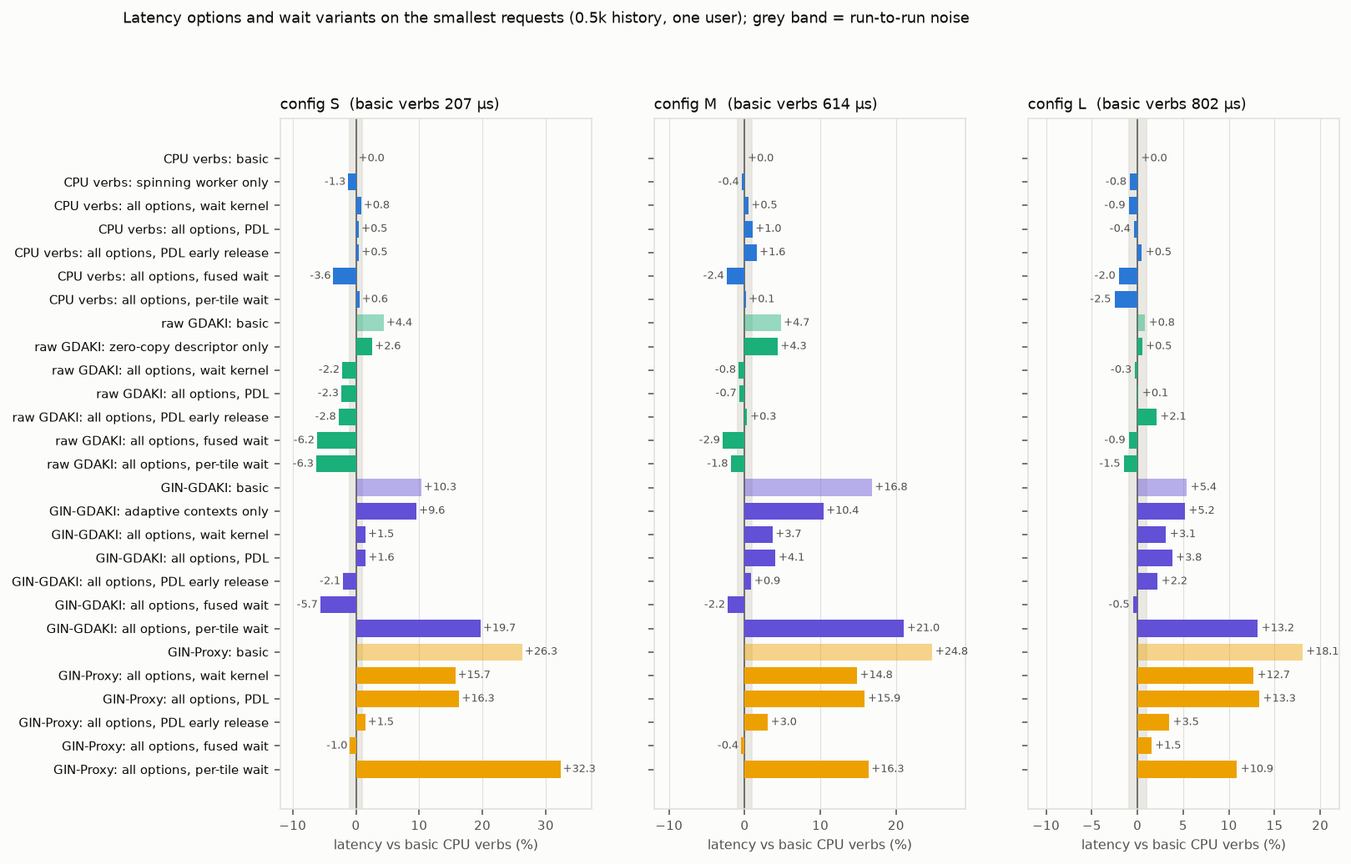
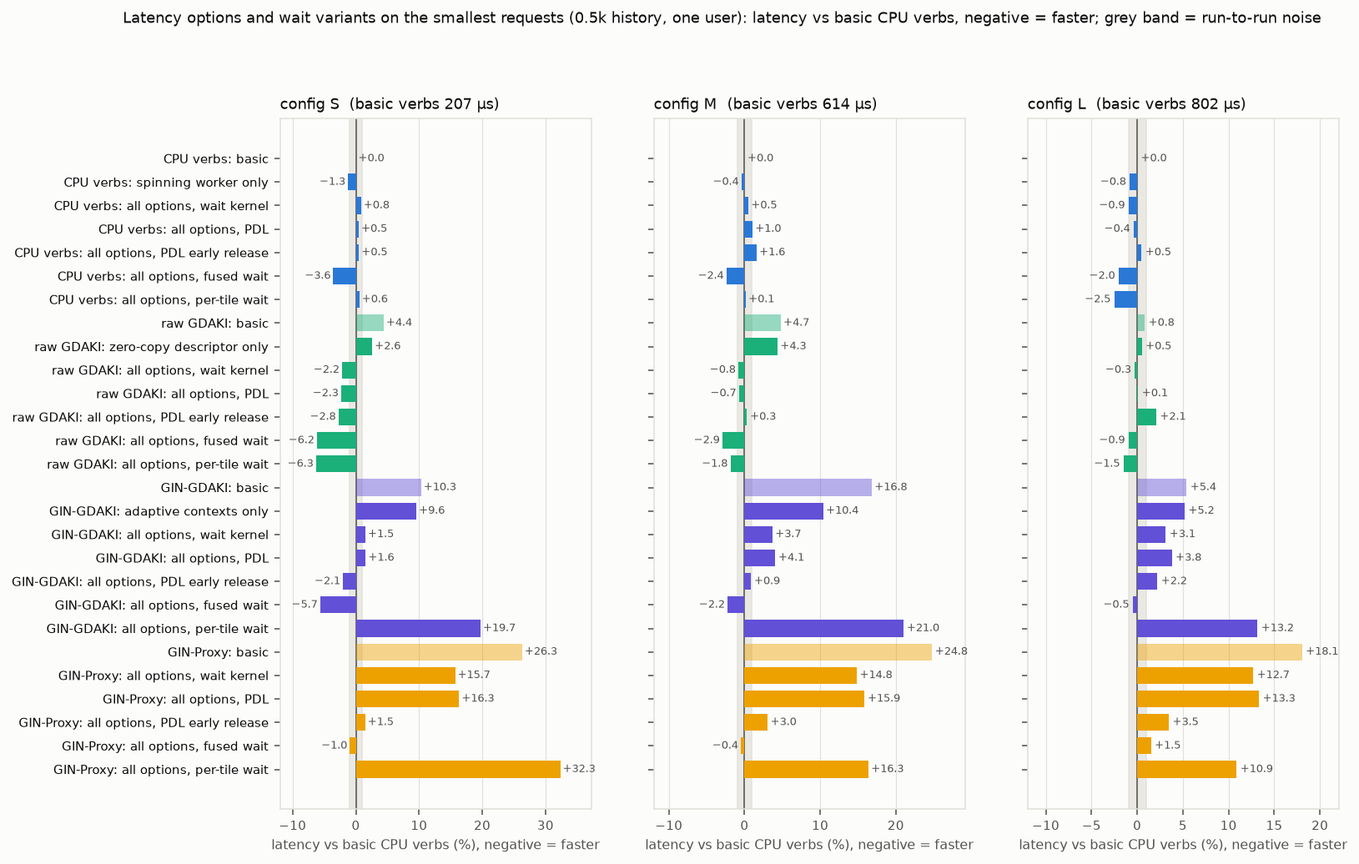
hstu-poc: report: wait-variant and who-posts diagrams, one sign convention
- docs/figs/fetch-timeline.png: one request over time with the basic wait
  kernel, the fused wait and per-tile waits, for a long and a short history
- docs/figs/fetch-who.png: who posts the reads and who reports progress,
  CPU verbs vs raw GDAKI, per wait variant (tools/fetch_diagrams.py)
- section 4.2 figures and tables now all give latency relative to the
  reference, negative = faster
- next steps: ranked list of the remaining in-scope optimizations

diff --git a/examples/hstu-poc/tools/fetch_diagrams.py b/examples/hstu-poc/tools/fetch_diagrams.py
@@ -1,0 +1,199 @@
+#!/usr/bin/env python3
+"""Explanatory diagrams of docs/results.md (schematic, not measured):
+  fetch-timeline.png  one request's transfer and compute over time with each wait variant (basic wait kernel, fused
+                      wait, per-tile wait), for a long history (transfer-bound) and a short one (compute-bound)
+  fetch-who.png       who posts the reads and who reports progress, CPU verbs vs raw GDAKI, per wait variant
+    tools/fetch_diagrams.py docs/figs"""
+import sys
+import textwrap
+
+import matplotlib
+
+matplotlib.use("Agg")
+import matplotlib.pyplot as plt  # noqa: E402
+from matplotlib.patches import FancyArrowPatch, FancyBboxPatch, Patch, Rectangle  # noqa: E402
+
+SURFACE, INK, INK2, MUTED, GRID = "#fcfcfb", "#0b0b0b", "#52514e", "#898781", "#e1e0d9"
+# kind: (fill, edge, text, hatch)
+STY = {
+    "nic": ("#9FE1CB", "#0F6E56", "#04342C", None),
+    "attn": ("#AFA9EC", "#534AB7", "#26215C", None),
+    "spin": ("#EEEDFE", "#7F77DD", "#3C3489", "////"),
+    "waitk": (SURFACE, "#5F5E5A", "#2C2C2A", "////"),
+    "other": ("#D3D1C7", "#888780", "#2C2C2A", None),
+}
+LANES = ["NIC reads", "wait kernel (basic)", "fused wait", "per-tile wait"]
+
+
+def timeline(ax, nic, lanes, title, xmax):
+    """nic: [(x0, x1, label)] one block per layer (drawn as 5 chunks); lanes: 3 lists of (x0, x1, kind, label)."""
+    ax.set_facecolor(SURFACE)
+    h = 0.62
+    width_in = ax.get_position().width * ax.figure.get_figwidth()
+    charw = 0.058 * xmax / width_in                          # x units per character at 7.5 pt
+    ys = [3, 2, 1, 0]
+    for x0, x1, lab in nic:
+        n = 5
+        for k in range(n):
+            a, b = x0 + (x1 - x0) * k / n, x0 + (x1 - x0) * (k + 1) / n
+            fc, ec, tc, _ = STY["nic"]
+            ax.add_patch(Rectangle((a, ys[0] - h / 2), b - a, h, facecolor=fc, edgecolor=ec, lw=0.6))
+        ax.text((x0 + x1) / 2, ys[0], lab, ha="center", va="center", fontsize=7.5, color=STY["nic"][2])
+    for y, segs in zip(ys[1:], lanes):
+        end = 0
+        for x0, x1, kind, lab in segs:
+            fc, ec, tc, hatch = STY[kind]
+            ax.add_patch(Rectangle((x0, y - h / 2), x1 - x0, h, facecolor=fc, edgecolor=ec, lw=0.6, hatch=hatch))
+            if lab and (x1 - x0) >= (len(lab) + 1.5) * charw:
+                ax.text((x0 + x1) / 2, y, lab, ha="center", va="center", fontsize=7.5, color=tc,
+                        bbox=dict(facecolor=fc, edgecolor="none", pad=0.6) if hatch else None)
+            end = max(end, x1)
+        ax.plot([end, end], [y - 0.42, y + 0.42], color=INK, lw=1.1)
+        ax.text(end + 0.35 * charw * 2, y, "done", va="center", fontsize=7.5, color=INK2)
+    ax.set_xlim(-0.3, xmax)
+    ax.set_ylim(-0.6, 3.6)
+    ax.set_yticks(ys)
+    ax.set_yticklabels(LANES, fontsize=8, color=INK)
+    ax.set_xticks([])
+    ax.set_xlabel("time →  (schematic, not to scale)", fontsize=7.5, color=MUTED, loc="right")
+    for sp in ("top", "right", "left"):
+        ax.spines[sp].set_visible(False)
+    ax.spines["bottom"].set_color(GRID)
+    ax.tick_params(axis="y", length=0)
+    ax.set_title(title, fontsize=9, color=INK, loc="left")
+
+
+def fig_timeline(out):
+    fig, axes = plt.subplots(2, 1, figsize=(10, 5.6), dpi=140, facecolor=SURFACE,
+                             gridspec_kw=dict(hspace=0.62, left=0.14, right=0.98, top=0.86, bottom=0.08))
+    # (a) long history, transfer-bound: every layer's data takes longer to arrive than the layer's compute
+    nic = [(0, 10, "layer 0"), (10, 20, "layer 1"), (20, 30, "layer 2")]
+    g = 0.6   # launch of the attention after the wait kernel ends
+    basic = [(0, 1, "other", ""), (1, 10, "waitk", "wait kernel"), (10 + g, 13 + g, "attn", "attn 0"),
+             (13 + g, 15 + g, "other", ""), (15 + g, 20, "waitk", "wait"), (20 + g, 23 + g, "attn", "attn 1"),
+             (23 + g, 25 + g, "other", ""), (25 + g, 30, "waitk", "wait"), (30 + g, 33 + g, "attn", "attn 2"),
+             (33 + g, 35 + g, "other", "")]
+    fused = [(0, 1, "other", ""), (1, 10, "spin", "attention spins"), (10, 13, "attn", "attn 0"), (13, 15, "other", ""),
+             (15, 20, "spin", "spins"), (20, 23, "attn", "attn 1"), (23, 25, "other", ""), (25, 30, "spin", "spins"),
+             (30, 33, "attn", "attn 2"), (33, 35, "other", "")]
+    tile = [(0, 1, "other", ""), (1, 10.5, "attn", "attn 0, as chunks land"), (10.5, 12.5, "other", ""),
+            (12.5, 20.5, "attn", "attn 1, as chunks land"), (20.5, 22.5, "other", ""),
+            (22.5, 30.5, "attn", "attn 2, as chunks land"), (30.5, 32.5, "other", "")]
+    timeline(axes[0], nic, [basic, fused, tile], "(a) Long history: the transfer dominates. Per-tile waits end about "
+             "one layer's attention earlier", 38.5)
+    # (b) short history, compute-bound: the data is there before the compute needs it
+    nic = [(0, 2, "L0"), (2, 4, "L1"), (4, 6, "L2")]
+    w, g = 0.7, 0.5
+    basic, t = [(0, 2, "other", "")], 2
+    for i in range(3):
+        basic += [(t, t + w, "waitk", ""), (t + w + g, t + w + g + 3, "attn", f"attn {i}")]
+        t = t + w + g + 3
+        basic += [(t, t + (4 if i < 2 else 2.5), "other", "")]
+        t += 4 if i < 2 else 2.5
+    fused, t = [(0, 2, "other", "")], 2
+    for i in range(3):
+        fused += [(t, t + 3, "attn", f"attn {i}"), (t + 3, t + 3 + (4 if i < 2 else 2.5), "other", "")]
+        t += 3 + (4 if i < 2 else 2.5)
+    timeline(axes[1], nic, [basic, fused, list(fused)], "(b) Short history: the compute dominates. The fused wait "
+             "saves a wait kernel and a launch per layer; per-tile waits add nothing", 27)
+    handles = [Patch(facecolor=STY["nic"][0], edgecolor=STY["nic"][1], label="NIC read of a chunk"),
+               Patch(facecolor=STY["attn"][0], edgecolor=STY["attn"][1], label="attention computing"),
+               Patch(facecolor=STY["spin"][0], edgecolor=STY["spin"][1], hatch="////",
+                     label="attention kernel resident, spinning until its layer has landed"),
+               Patch(facecolor=STY["waitk"][0], edgecolor=STY["waitk"][1], hatch="////",
+                     label="1-thread wait kernel"),
+               Patch(facecolor=STY["other"][0], edgecolor=STY["other"][1], label="projections, layer output, head")]
+    fig.legend(handles=handles, loc="upper left", ncol=3, frameon=False, fontsize=7.5, labelcolor=INK,
+               bbox_to_anchor=(0.01, 0.995), handlelength=1.6, columnspacing=1.4)
+    fig.savefig(out, facecolor=SURFACE)
+    print("wrote", out)
+
+
+# ---------------------------------------------------------------- who posts, who reports progress
+BOX = {  # fill, edge, title, body
+    "cpu": ("#FAECE7", "#D85A30", "#712B13", "#993C1D"),
+    "gpu": ("#EEEDFE", "#7F77DD", "#3C3489", "#534AB7"),
+    "nic": ("#E1F5EE", "#1D9E75", "#085041", "#0F6E56"),
+    "mem": ("#F1EFE8", "#888780", "#444441", "#5F5E5A"),
+}
+
+
+def box(ax, x, y, w, h, kind, title, body, wrap):
+    fc, ec, tc, bc = BOX[kind]
+    ax.add_patch(FancyBboxPatch((x, y), w, h, boxstyle="round,pad=0,rounding_size=0.07", facecolor=fc, edgecolor=ec,
+                                lw=0.7))
+    ax.text(x + 0.12, y + h - 0.12, title, ha="left", va="top", fontsize=8.5, color=tc, fontweight="bold")
+    ax.text(x + 0.12, y + h - 0.33, "\n".join(textwrap.wrap(body, wrap, break_on_hyphens=False)), ha="left", va="top",
+            fontsize=7.8,
+            color=bc, linespacing=1.35)
+
+
+def arrow(ax, x0, y0, x1, y1):
+    ax.add_patch(FancyArrowPatch((x0, y0), (x1, y1), arrowstyle="-|>", mutation_scale=9, color=INK2, lw=0.8,
+                                 shrinkA=1, shrinkB=1))
+
+
+def fig_who(out):
+    W, H = 10.0, 7.3
+    fig = plt.figure(figsize=(W, H), dpi=140, facecolor=SURFACE)
+    ax = fig.add_axes((0, 0, 1, 1))
+    ax.set_xlim(0, W)
+    ax.set_ylim(0, H)
+    ax.axis("off")
+    bw, bh, pitch, wrap = 4.55, 0.82, 1.05, 76
+    cols = {"verbs": 0.3, "raw": 5.15}
+    ax.text(cols["verbs"] + bw / 2, H - 0.25, "CPU verbs", ha="center", va="center", fontsize=10, color=INK,
+            fontweight="bold")
+    ax.text(cols["raw"] + bw / 2, H - 0.25, "raw GDAKI", ha="center", va="center", fontsize=10, color=INK,
+            fontweight="bold")
+    verbs = [
+        ("cpu", "Request thread (CPU)", "Posts every read, then launches the GPU work. Basic and fused: one read per "
+         "user's K or V block; per-tile: 128-row chunks from the history's end, round-robin over 4 queue pairs."),
+        ("nic", "NIC", "Reads the remote host memory into GPU memory; completions land in host memory."),
+        ("cpu", "Worker thread (CPU, spinning)", "Polls the completion queue and counts what has landed, per layer "
+         "(per-tile: per chunk step)."),
+        ("mem", "Progress words in host memory", "Per layer: 'layer landed' (basic, fused) or 'chunk steps landed' "
+         "(per-tile)."),
+        ("gpu", "Relay kernel (GPU, 1 thread)", "Fused and per-tile: copies the words into GPU memory for the "
+         "attention kernel. Basic: no relay; the wait kernel reads host memory over PCIe."),
+    ]
+    raw = [
+        ("cpu", "Request thread (CPU)", "Writes the request's index into pinned host memory and launches the GPU "
+         "work. Posts nothing and polls nothing."),
+        ("gpu", "Post kernel (GPU, side branch of the graph)", "Writes the reads and rings the NIC doorbell. Basic and "
+         "fused: one read per K or V block; per-tile: the chunks, one batch per layer and queue pair, 32 lanes."),
+        ("nic", "NIC", "Reads the remote host memory into GPU memory; completions land in GPU memory."),
+        ("gpu", "Completion polling (GPU)", "Basic: the wait kernel itself. Fused: a 1-thread poller kernel. "
+         "Per-tile: the post kernel, once everything is posted."),
+        ("mem", "Progress words in GPU memory", "Per layer: 'layer landed' (fused) or 'chunk steps landed' "
+         "(per-tile). Basic: none."),
+    ]
+    top = H - 0.55
+    for name, rows in (("verbs", verbs), ("raw", raw)):
+        x = cols[name]
+        for i, (kind, title, body) in enumerate(rows):
+            y = top - bh - i * pitch
+            box(ax, x, y, bw, bh, kind, title, body, wrap)
+            if i:
+                arrow(ax, x + bw / 2, y + bh + (pitch - bh) - 0.02, x + bw / 2, y + bh + 0.02)
+    by = 0.45
+    box(ax, 0.3, by, 9.4, 0.9, "gpu", "Who waits before using the data (both mechanisms)",
+        "Basic: a 1-thread wait kernel before each layer's attention. Fused: the attention kernel itself, before its "
+        "first K/V load, for the whole layer. Per-tile: the attention kernel, before each K tile, only for the chunks "
+        "that tile needs (the history arrives from its end, the order the attention reads it).", 178)
+    last = top - bh - 4 * pitch
+    for name in ("verbs", "raw"):
+        x = cols[name] + bw / 2
+        arrow(ax, x, last - 0.02, x, by + 0.9 + 0.02)
+    handles = [Patch(facecolor=BOX[k][0], edgecolor=BOX[k][1], label=lab)
+               for k, lab in (("cpu", "CPU"), ("gpu", "GPU"), ("nic", "NIC"), ("mem", "memory word"))]
+    ax.legend(handles=handles, loc="lower right", ncol=4, frameon=False, fontsize=7.5, labelcolor=INK,
+              bbox_to_anchor=(0.985, 0.0), handlelength=1.4, columnspacing=1.2)
+    fig.savefig(out, facecolor=SURFACE)
+    print("wrote", out)
+
+
+if __name__ == "__main__":
+    d = sys.argv[1] if len(sys.argv) > 1 else "docs/figs"
+    fig_timeline(f"{d}/fetch-timeline.png")
+    fig_who(f"{d}/fetch-who.png")

diff --git a/examples/hstu-poc/tools/p2t_report.py b/examples/hstu-poc/tools/p2t_report.py
@@ -92,7 +92,8 @@ def main():
                     g = 1 - b[0] / lat[(BASE,) + c]
                     M[i, j] = 100 * g
                     t, lv, v = b[1].split(".")
-                    ax.text(j, i, f"{TSHORT[t]}\n{VSHORT[v]}\n{100 * g:+.1f}%" if abs(g) > noise else "≈\nbasic",
+                    chg = f"{-100 * g:+.1f}%".replace("-", "\u2212")   # latency change: negative = faster
+                    ax.text(j, i, f"{TSHORT[t]}\n{VSHORT[v]}\n{chg}" if abs(g) > noise else "≈\nbasic",
                             ha="center", va="center", fontsize=5.6, color=INK if 100 * g < 6 else SURFACE)
             ax.imshow(M, cmap="Greens", vmin=0, vmax=10, aspect="auto", origin="lower")
             ax.set_xticks(range(len(Ls)))
@@ -105,8 +106,8 @@ def main():
         row[0].set_ylabel("batch size B (users)", color=INK2, fontsize=8.5)
     for ax in axes[-1]:
         ax.set_xlabel("history length (tokens)", color=INK2, fontsize=8.5)
-    fig.suptitle(f"Fastest RDMA implementation per request and its latency gain over basic CPU verbs ('≈ basic': within "
-                 f"run-to-run noise, {100 * noise:.2f}%)\nHistory ≤ 4k with B ≤ 8: all {len(modes)} implementations "
+    fig.suptitle(f"Fastest RDMA implementation per request and its latency vs basic CPU verbs (negative = faster; "
+                 f"'≈ basic': within run-to-run noise, {100 * noise:.2f}%)\nHistory ≤ 4k with B ≤ 8: all {len(modes)} implementations "
                  f"measured; elsewhere the basic, fused-wait and per-tile implementations of every mechanism",
                  color=INK, fontsize=9.5, y=1.0, x=0.01, ha="left")
     fig.tight_layout(rect=(0, 0, 1, 0.975))
@@ -134,12 +135,13 @@ def main():
                 continue
             v = 100 * (lat[(m,) + c] / base - 1)
             ax.barh(y, v, height=0.72, color=TCOL[t], alpha=0.45 if o == "b.5a" else 1.0, zorder=3)
-            ax.text(v + (0.4 if v >= 0 else -0.4), y, f"{v:+.1f}", va="center", ha="left" if v >= 0 else "right",
+            ax.text(v + (0.4 if v >= 0 else -0.4), y, f"{v:+.1f}".replace("-", "\u2212"), va="center",
+                    ha="left" if v >= 0 else "right",
                     fontsize=6.5, color=INK2)
         ax.axvline(0, color=INK2, lw=0.8)
         ax.axvspan(-100 * noise, 100 * noise, color=GRID, alpha=0.7, zorder=1)
         ax.set_title(f"config {c[0]}  (basic verbs {base * 1e3:.0f} µs)", color=INK, fontsize=9, loc="left")
-        ax.set_xlabel("latency vs basic CPU verbs (%)", color=INK2, fontsize=8)
+        ax.set_xlabel("latency vs basic CPU verbs (%), negative = faster", color=INK2, fontsize=8)
         ax.grid(True, axis="x", color=GRID, lw=0.6, zorder=0)
         ax.tick_params(colors=INK2, labelsize=7.5)
         for sp in ax.spines.values():
@@ -148,8 +150,8 @@ def main():
         ax.set_xlim(min(lo, -9.5) - 2.5, hi + 3)
     axes[0][0].set_yticks(ys)
     axes[0][0].set_yticklabels([f"{TNAME[t]}: {oname[o]}" for t, o in rowsx], fontsize=7.5, color=INK)
-    fig.suptitle("Latency options and wait variants on the smallest requests (0.5k history, one user); grey band = "
-                 "run-to-run noise", color=INK, fontsize=9.5, y=1.0, x=0.01, ha="left")
+    fig.suptitle("Latency options and wait variants on the smallest requests (0.5k history, one user): latency vs "
+                 "basic CPU verbs, negative = faster; grey band = run-to-run noise", color=INK, fontsize=9.5, y=1.0, x=0.01, ha="left")
     fig.savefig(a.ablation, bbox_inches="tight", facecolor=SURFACE)
     print("wrote", a.ablation)
 

diff --git a/examples/hstu-poc/docs/results.md b/examples/hstu-poc/docs/results.md
@@ -18,7 +18,7 @@ request at a time (plain-run latency) and for a server under load (throughput).
   - Raw GDAKI per-tile otherwise ties CPU verbs (at 140 of the 142 points beyond 4k history or 8 users) or trails it,
     by up to 6% on small S requests and 2.3% on M and L.
   - GIN pays a flush per chunk step and gains from per-tile waits only from four users per request.
-  - Against basic CPU verbs the fastest gains up to 11% (S), 4% (M) and 2.5% (L) per request, most for single users;
+  - The fastest is up to 11% (S), 4% (M) and 2.5% (L) faster per request than basic CPU verbs, most for single users;
     above ~1 ms per request every mechanism transfers at line rate.
 - **Per-request break-even: ~13–14k history tokens for M and ~9k for L** (S: 10–13k). It is lowest for single users
   (M 12.8k, L 8.5k, S 9.9k) and equals the throughput break-even from B ≈ 8 (M 14.4k, L 9.7k, S 12.8k). The
@@ -114,12 +114,37 @@ weights).
 
 ### 2.4 How a remote fetch proceeds
 
-The fetch is posted all at once and consumed layer by layer. When a request starts, the reads of every layer are
-posted in layer order, each layer's K and V spread over 4 queue pairs. Before layer l's attention, the request waits
-until layer l's K/V have landed, and only those. Later layers keep transferring while earlier layers compute, so a
-transfer-bound request takes its transfer time plus about one layer's compute. With per-tile waits (§3) a layer's
-attention also starts on the layer's first chunks, which removes most of that remainder. Each request is one CUDA
-graph.
+The fetch is posted all at once and consumed layer by layer. When a request starts, the reads of every layer's
+history K/V are posted in layer order, spread over 4 queue pairs, so the NIC streams while the GPU computes. Each
+request is one CUDA graph. Before layer l's attention uses its K/V, the request waits for them. The three ways to wait
+(§3) differ in how much of the layer must have landed and in which kernel waits:
+- **Wait kernel (basic):** a 1-thread kernel before each layer's attention spins until the whole layer has landed;
+  the attention is launched after it.
+- **Fused wait:** no separate kernel. The attention kernel is launched at once and its load warp spins until the whole
+  layer has landed, so the attention's launch and setup overlap the wait.
+- **Per-tile wait:** the history is sent in 128-row chunks from its end, the order in which the attention reads it,
+  and the attention waits before each key tile only for the chunks that tile needs. A layer's attention runs while the
+  layer is still arriving.
+
+![Wait variants over time](figs/fetch-timeline.png)
+
+*Schematic, not to scale: one request of three layers. (a) Long history, the transfer dominates: with a wait per
+layer (basic or fused) each attention starts only once its whole layer has landed, so the request ends about one
+layer's attention after the last byte; with per-tile waits it ends shortly after it. (b) Short history, the compute
+dominates: the data are in GPU memory before the compute needs them; the basic variant still pays a wait kernel and a
+launch per layer, which the fused wait removes, and per-tile waits add nothing.*
+
+Who posts the reads and who tells the GPU what has landed depends on the mechanism. The figure below compares the two
+fastest. GIN-GDAKI works like raw GDAKI through NCCL's device API: a `get` per read, and a flush ticket per layer or
+chunk step in place of completion tickets. GIN-Proxy hands each request to NCCL's CPU proxy thread, which posts it
+(§2.3).
+
+![Who posts and who reports progress](figs/fetch-who.png)
+
+*CPU verbs: the CPU posts the reads, a spinning CPU worker reports progress, and a 1-thread relay kernel copies it
+into GPU memory. Raw GDAKI: the GPU posts (a post kernel on a side branch of the graph) and the GPU reports progress;
+with per-tile waits the post kernel itself reports it once everything is posted, because a separate polling kernel can
+be starved of SMs by attention blocks spinning on its progress.*
 
 ### 2.5 Batch size and the two measurement modes
 
@@ -217,26 +242,31 @@ fetch is faster. Dots: latency break-even per batch size. Dashed line: throughpu
 
 ### 4.2 The fastest RDMA implementation
 
+**How to read the percentages.** Figures and tables in this section give the latency of an implementation relative to
+a reference (basic CPU verbs unless stated): **negative = lower latency (faster)**, positive = slower. The text says
+"faster" or "slower" instead of a sign.
+
 ![Fastest implementation](figs/best-impl.png)
 
 *Per grid point, the fastest implementation (left) and the fastest that needs no CPU core (right: raw GDAKI or
-GIN-GDAKI), with its latency gain over basic CPU verbs; '≈ basic' = within the run-to-run noise of a repeated basic run
+GIN-GDAKI), with its latency relative to basic CPU verbs (negative = faster); '≈ basic' = within the run-to-run noise
+of a repeated basic run
 (0.95% at the 95th percentile). Up to 4k history and B = 8 all 27 implementations were measured; elsewhere the basic,
 fused-wait and per-tile implementations of each mechanism. The modes were measured in several allocations (different
 GPU/NIC pairs); the table below compares the per-tile implementations on one pair.*
 
 ![Optimizations](figs/opt-ablation.png)
 
-*Every implementation on the smallest requests (0.5k history, one user), relative to basic CPU verbs. The per-tile
-rows come from other GPU/NIC pairs than the rest, which shifts them by up to ~3% on these requests; the table below
-compares them on one pair.*
+*Every implementation on the smallest requests (0.5k history, one user): latency relative to basic CPU verbs
+(negative = faster). The per-tile rows come from other GPU/NIC pairs than the rest, which shifts them by up to ~3% on
+these requests; the table below compares them on one pair.*
 
 - **Per-tile waits are the fastest wait on CPU verbs and raw GDAKI.** CPU verbs per-tile is the fastest or within
   noise of the fastest at 68 of 72 grid points up to 4k (B ≤ 8) and at all 142 points beyond (history ≥ 6k or
-  B ≥ 16). Its gain over basic CPU verbs is up to 10.6% for S, 4.0% for M and 2.5% for L on single-user requests,
-  falling with the batch size (B = 8: up to 2.8% for S, within noise for M and L; B ≥ 16: within noise). Unlike the
-  other options, per-tile waits keep their gain at long histories: against the fused wait they cut 8–9% from every
-  single-user S request up to 32k, 3.1% for M and 1.6% for L.
+  B ≥ 16). It is faster than basic CPU verbs by up to 10.6% for S, 4.0% for M and 2.5% for L on single-user
+  requests, less with larger batches (B = 8: up to 2.8% for S, within noise for M and L; B ≥ 16: within noise).
+  Unlike the other options, per-tile waits keep their gain at long histories: against the fused wait they cut 8–9%
+  from every single-user S request up to 32k, 3.1% for M and 1.6% for L.
 - **Without a CPU core, raw GDAKI per-tile is the fastest**; from four users GIN-GDAKI per-tile is within noise of
   it. On one GPU/NIC pair, raw GDAKI per-tile beats CPU verbs per-tile on the smallest S requests (0.5k: −3.2% with
   one user, −1.4% with two). Elsewhere it ties (47 of 72 points up to 4k; 140 of 142 beyond) or trails, by up to 5.9%
@@ -258,8 +288,8 @@ compares them on one pair.*
 | raw GDAKI per-tile: batched posting vs one DOCA `get` per chunk | +0.2% | −16.6% (S, 1 user, 1.5k) … +1.6% (S, 2 users, 4k) | 12 / 46 / 14 |
 | raw GDAKI per-tile: warp-parallel vs one-thread batches (18 points, 2 runs each) | −0.1% | −1.0% (S, 1 user, 4k) … +0.7% (M, 1 user, 0.5k) | 1 / 17 / 0 |
 
-*Tie = within the run-to-run noise (0.95%). CPU verbs per-tile measured on two pairs differs by a median 0.1% (at
-most 3.3%).*
+*Latency of the first implementation relative to the second (negative = first faster); tie = within the run-to-run
+noise (0.95%). CPU verbs per-tile measured on two pairs differs by a median 0.1% (at most 3.3%).*
 
 - **Posting is on raw GDAKI's critical path**: the NIC starts on a layer only once its reads are written and the
   doorbell rung. One slot reservation, ready mark and doorbell per layer and queue pair, instead of one DOCA `get` per
@@ -534,11 +564,26 @@ written range was read back and compared (0 mismatched bytes).
 
 ## 9. Next steps
 
-- **Small requests, the open in-scope item:** a per-request timeline (time until the first chunk lands, compute left
-  after the last) to show how much of the remaining 13% above the ideal bound any RDMA schedule can recover, and why
-  raw GDAKI per-tile still trails CPU verbs per-tile by up to 6% on small S requests. Posting is on its critical path
-  (§4.2); a persistent post kernel that starts the transfer without waiting for the graph launch is one candidate. The
-  publisher and the chunk placement were ruled out.
+- **Small requests, the open in-scope item.** What is left within the rules of §1 only concerns requests under
+  ~30 MB (a median 13% above the ideal bound). The break-even and serving capacity sit at NIC limits. Candidates, most
+  promising first:
+  1. *A per-request timeline* (GPU and CPU timestamps: first doorbell, first chunk landed, each layer's last chunk,
+     each attention, request end). It shows how much of the 13% any RDMA schedule can recover and where raw GDAKI
+     loses up to 6% to CPU verbs on small S requests; it decides which of the items below are worth building.
+  2. *A persistent post kernel (raw GDAKI)*: a kernel that stays resident across requests, waits on a request flag in
+     pinned memory and posts at once, so the transfer no longer waits for the graph launch. It aims at raw GDAKI's gap
+     to CPU verbs and costs one SM held permanently.
+  3. *Progress written straight into GPU memory (CPU verbs)*: the worker writes the progress counter through a GPU
+     memory mapping (GDRCopy), which removes the relay kernel and its polling over PCIe.
+  4. *Fewer completions*: one completion per chunk step and queue pair instead of one per read, which is exact because
+     a queue pair completes in order; it reduces completion traffic and polling on small chunks.
+  5. *An early first doorbell (raw GDAKI)*: ring the doorbell after the first few reads of layer 0. It saved up to
+     2.5% with a slow posting loop and is untested with warp-parallel posting.
+  6. *Adaptive chunk sizes*: small chunks at the end of the history, larger ones further in. Expect at most ~1%:
+     64-row chunks matched 128 on CPU verbs.
+
+  Ruled out (§4.2): a non-blocking publisher, round-robin chunk placement, aggregated GIN reads. Per-tile waits in the
+  serving ring would lower latency at low load but not capacity (NIC-bound).
 - **Hybrid server (P7):** one scheduler that sends each request, or each layer, to fetch or recompute by history
   length and load, to turn the additive capacity of §5.5 into a serving result; M and L with more layers.
 - **Fewer bytes per user:** FP8 or otherwise compressed K/V (half the bytes acts like a 2× faster NIC on transfer).

diff --git a/examples/hstu-poc/README.md b/examples/hstu-poc/README.md
@@ -69,9 +69,9 @@ hstu-poc/
     p6.py           transfer under SM contention / CPU contention
   scripts/srun2.sh  2-node launcher (inference ranks on node A, store ranks on node B)
   tools/           analysis and campaign scripts behind docs/results.md (plots need matplotlib): make_figs.sh
-                   (every figure), p2t_report.py, p2t_ctl.py, p2t_to_p2c.py, report_figs.py, p2c_breakeven.py, p5s_report.py,
-                   p5x_report.py, p6s_report.py, p3_report.py, p5_eight.py, campaigns (p2t_grid.sh, p5s_*.sh,
-                   p5x_runs.sh, p6s_*.sh, ...), numa_check.cu
+                   (every figure), fetch_diagrams.py, p2t_report.py, p2t_ctl.py, p2t_to_p2c.py, report_figs.py,
+                   p2c_breakeven.py, p5s_report.py, p5x_report.py, p6s_report.py, p3_report.py, p5_eight.py,
+                   campaigns (p2t_grid.sh, p5s_*.sh, p5x_runs.sh, p6s_*.sh, ...), numa_check.cu
   docs/            results.md (final report), figs/, archive/ (earlier revisions)
 ```
 
